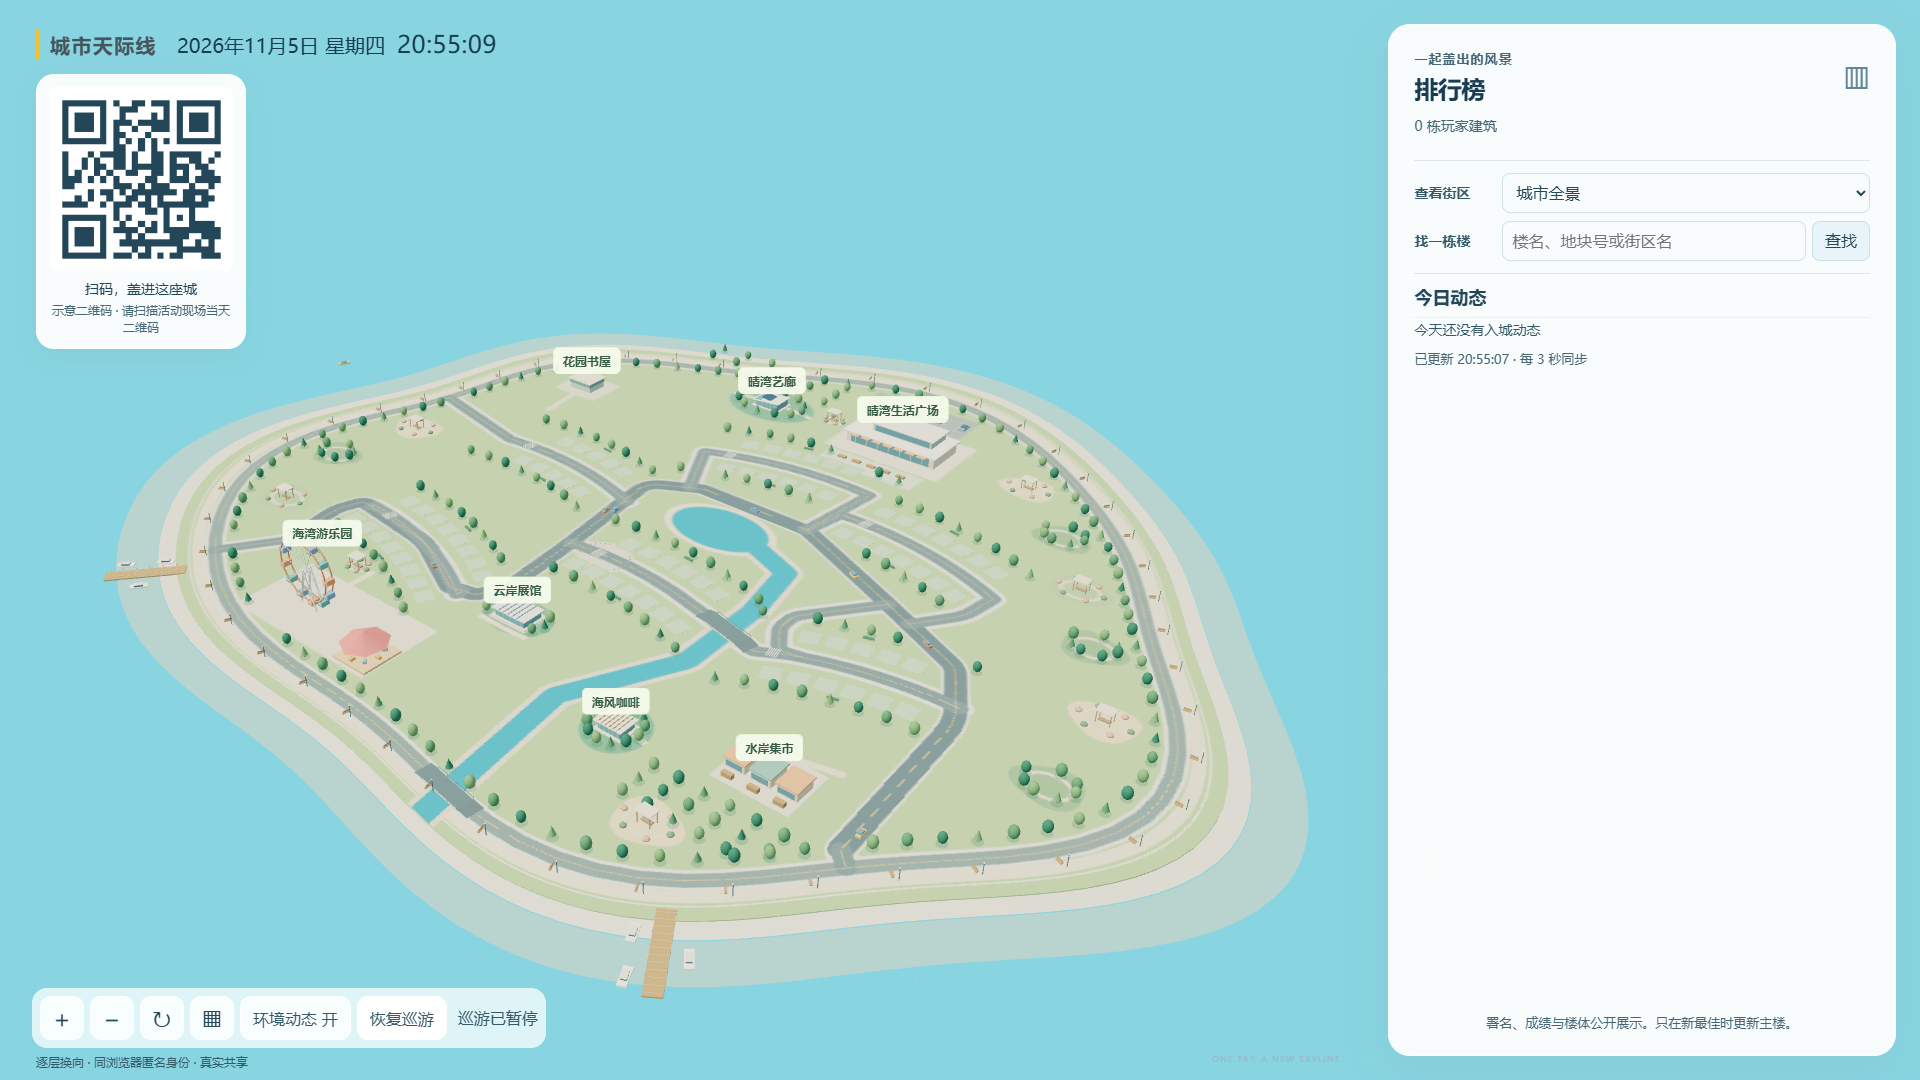
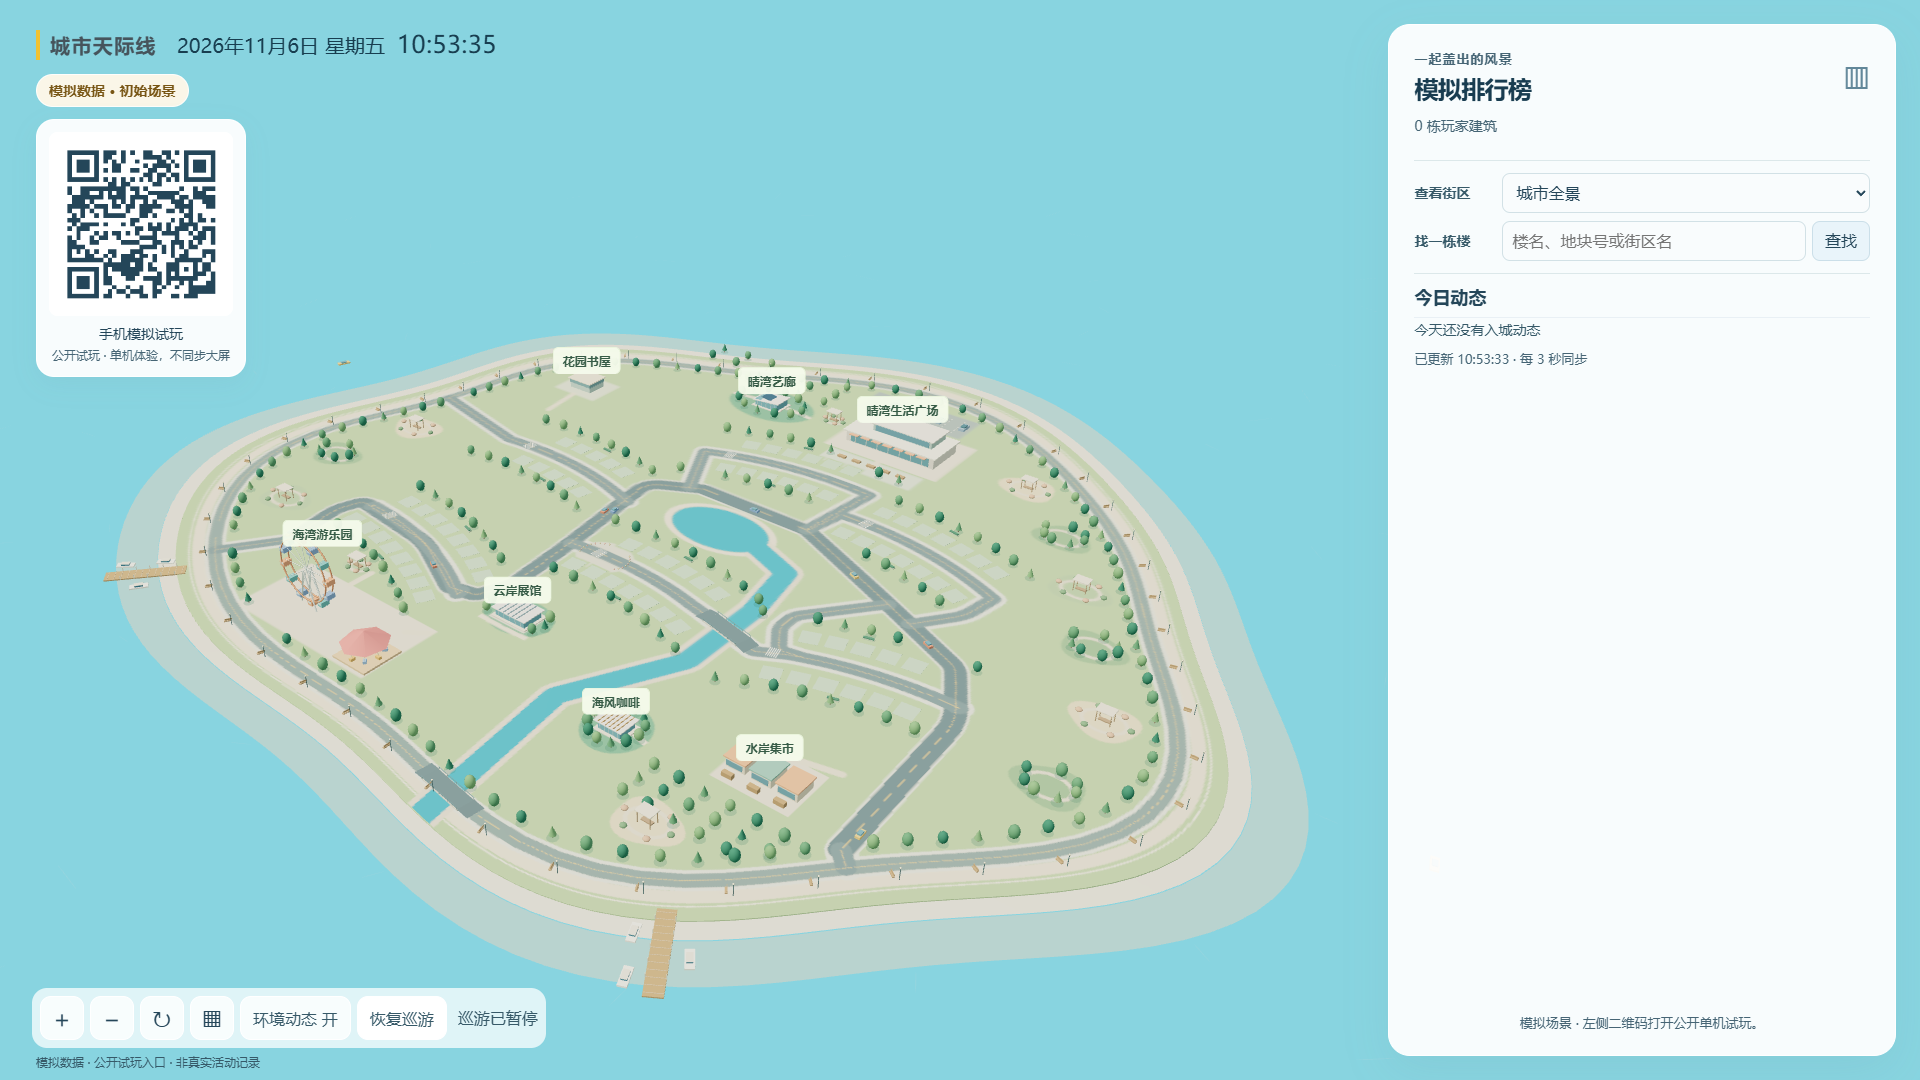
feat: add scannable demo and project links

diff --git a/pages-web/style.css b/pages-web/style.css
@@ -1,4 +1,8 @@
 :root{font-family:-apple-system,BlinkMacSystemFont,"Segoe UI","Microsoft YaHei",sans-serif;color:#214b65;background:#eef8fd;font-synthesis:none}body{margin:0}a{color:#2268ae;text-underline-offset:3px}a:focus-visible{outline:3px solid #edb763;outline-offset:5px}[hidden]{display:none!important}
 .pages-landing{max-width:1120px;margin:auto;padding:24px 32px 20px}.pages-heading,.pages-footer{display:flex;justify-content:space-between;gap:16px;align-items:center}.pages-heading a{font-size:13px}.pages-mark{font-size:12px;font-weight:650;border:1px solid #c9e0ee;background:#fffc;border-radius:20px;padding:8px 13px}.pages-hero{padding-top:54px}.pages-eyebrow{font-size:11px;letter-spacing:.13em;color:#6689a1}.pages-hero h1{font-size:clamp(34px,5.3vw,62px);line-height:1.2;letter-spacing:-.045em;margin:18px 0;color:#234b69}.pages-intro{max-width:690px;line-height:1.9;color:#56758c;font-size:15px}.pages-actions{display:flex;gap:14px;flex-wrap:wrap;margin:27px 0 32px}.pages-actions a{display:grid;gap:6px;text-decoration:none;font-weight:700;font-size:17px;padding:17px 27px;border-radius:17px;min-width:182px;box-sizing:border-box;min-height:77px;border:1px solid #bdd7eb}.pages-actions a span{font-size:11px;font-weight:400}.pages-primary{background:#3679c8;color:#fff;box-shadow:0 8px 24px #4c8bc528}.pages-secondary{background:#fffc;color:#3d6a90}.pages-preview{margin:0;padding:10px;background:#fffc;border:1px solid #d2e5ee;border-radius:22px;box-shadow:0 18px 55px #326a8620}.pages-preview img{display:block;width:100%;height:auto;border-radius:14px}.pages-preview figcaption{font-size:12px;line-height:1.7;color:#6c8191;padding:10px 6px 3px}.pages-notes{display:grid;grid-template-columns:repeat(3,1fr);gap:23px;margin:34px 0}.pages-notes article{padding:9px 4px}.pages-notes h2,.pages-contact h2{font-size:17px;color:#315b76}.pages-notes p,.pages-contact p{font-size:13px;line-height:1.9;color:#637e91}.pages-contact{padding:20px 26px;border:1px solid #d0e4ef;border-radius:18px;background:#fff9}.pages-contact a{display:inline-block;margin:7px 22px 5px 0;font-size:13px}.pages-footer{padding:25px 0 0;font-size:10px;color:#7d93a3}.pages-footer a{color:inherit}.demo-notice{position:fixed;top:0;left:0;right:0;z-index:1000;display:flex;justify-content:center;gap:12px;align-items:center;min-height:18px;box-sizing:border-box;padding:1px 5px;background:#fff7e4f5;color:#7c622d;font-size:10px;line-height:16px}.demo-notice a{color:inherit;white-space:nowrap}
 :root[data-pages-view=game] .app-header{transform:translateY(18px)}:root[data-pages-view=game] .sticker-row,:root[data-pages-view=game] #own-photo-actions,:root[data-pages-view=game] #photo-dialog{display:none!important}
+:root[data-pages-view=game] .demo-play-qr[hidden]{display:none!important}
+:root[data-pages-view=game] .demo-promotion{display:flex;flex-direction:column;align-items:center;gap:6px;text-align:center}
+.demo-promotion canvas{display:block;width:136px!important;height:136px!important;max-width:100%;background:#fff;border-radius:8px}.demo-promotion span{font-size:12px;color:#456879}.demo-promotion a{color:#2c6d9d;font-size:12px;line-height:1.5;text-underline-offset:3px}.demo-promotion a:hover{color:#164b72}.demo-promotion a:focus-visible{outline:2px solid #2c6d9d;outline-offset:4px;border-radius:2px}
+@media(min-width:1101px) and (max-height:950px){:root[data-pages-view=game] .city-board #city-ranking li button{min-height:30px!important}:root[data-pages-view=game] .rank-name{font-size:15px!important}:root[data-pages-view=game] #city-ranking li strong{font-size:16px!important}:root[data-pages-view=game] .city-feed{display:none!important}.demo-promotion{margin-top:auto!important}.demo-promotion canvas{width:112px!important;height:112px!important}}
 @media(max-width:680px){.pages-landing{padding:17px 19px}.pages-heading{gap:8px}.pages-heading a{font-size:11px}.pages-mark{font-size:10px;padding:7px 10px}.pages-hero{padding-top:33px}.pages-eyebrow{font-size:9px;line-height:1.7;letter-spacing:.07em}.pages-intro{font-size:13px}.pages-actions{gap:11px;margin:23px 0}.pages-actions a{min-width:0;flex:1;padding:15px;font-size:15px}.pages-actions a span{font-size:10px}.pages-preview{padding:6px;border-radius:15px}.pages-preview img{border-radius:10px}.pages-preview figcaption{font-size:10px}.pages-notes{grid-template-columns:1fr;gap:2px;margin:23px 0}.pages-notes article{padding:2px 0}.pages-notes h2{margin-bottom:6px}.pages-notes p{margin-top:0}.pages-contact{padding:15px 18px}.pages-footer{font-size:9px;align-items:flex-start;line-height:1.7}.demo-notice{gap:8px;font-size:9px}}

diff --git a/pages-web/main.ts b/pages-web/main.ts
@@ -31,6 +31,35 @@ async function openDemo(){
     const [,module]=await Promise.all([import('../src/style.css'),import('../src/main.ts')]);
     disposeGame=await module.mountSkyline(root);
     const photoInput=root.querySelector<HTMLInputElement>('#photo-file');if(photoInput)photoInput.disabled=true;
+    if(view==='city'){
+      const {default:QRCode}=await import('qrcode');
+      const preview=new URL('?mode=practice',location.href).href;
+      const project='https://github.com/sw897/one-tap-skyline';
+      const makeLink=(href:string,label:string)=>{
+        const link=document.createElement('a');link.href=href;link.textContent=label;
+        link.target='_blank';link.rel='noopener noreferrer';return link;
+      };
+      const qrOptions={width:240,margin:4,errorCorrectionLevel:'M' as const,color:{dark:'#244659',light:'#ffffff'}};
+      const playQR=root.querySelector<HTMLCanvasElement>('#entry-qr');
+      const playCard=root.querySelector<HTMLElement>('.city-qr');
+      if(playQR&&playCard){
+        await QRCode.toCanvas(playQR,preview,qrOptions);
+        playQR.hidden=false;playCard.hidden=false;playCard.classList.add('demo-play-qr');
+        playCard.querySelector('strong')!.textContent='手机模拟试玩';
+        const note=playCard.querySelector<HTMLElement>('#qr-note')!;
+        note.textContent='单机体验 · 不同步本大屏';
+        const entry=playCard.querySelector<HTMLAnchorElement>('#entry-link')!;
+        entry.href=preview;entry.textContent='打开模拟试玩 ↗';entry.hidden=false;
+      }
+      const disclosure=root.querySelector<HTMLElement>('#city-disclosure');
+      if(disclosure){
+        disclosure.classList.add('demo-promotion');
+        const caption=document.createElement('span');caption.textContent='查看源码 · 欢迎 Star';
+        const qr=document.createElement('canvas');qr.id='project-qr';qr.setAttribute('aria-label','GitHub 开源项目二维码');
+        await QRCode.toCanvas(qr,project,qrOptions);
+        disclosure.replaceChildren(caption,qr,makeLink(project,'GitHub · One-Tap Skyline ↗'));
+      }
+    }
   }catch{
     disposeGame?.();
     if(!root.querySelector('.compatibility-message'))root.innerHTML='<main class="compatibility-message"><h1>暂时无法打开模拟试玩</h1><p>请刷新重试，或使用支持 WebGL2 的新版浏览器。</p><a href="./">返回体验说明</a></main>';

diff --git a/README.en.md b/README.en.md
@@ -10,15 +10,19 @@ One-Tap Skyline is an open-source tower stacking browser game for live events, e
 
 The GitHub Pages demo needs no login. It uses page-local simulated data, with no shared scores or photo uploads. Refreshing or device-clock Shanghai midnight resets the page. Full multiplayer event features run in the Docker deployment.
 
+[<img src="docs/images/demo-qr.svg" width="200" alt="Scan to open the public phone simulation on GitHub Pages">](https://sw897.github.io/one-tap-skyline/?mode=practice)
+
+*Scan or click the code to play. Your simulated work stays in the current page and does not sync to the city display.*
+
 [Screenshots](#start-with-an-open-city) · [How to play](#build-with-one-finger) · [Self-hosting](#run-your-own-event) · [Feedback and deployment support](#feedback-and-deployment-support) · [FAQ](#frequently-asked-questions)
 
 ## Start with an open city
 
 Streets, parks, a fairground and waterfronts are ready for everyone’s towers. The display shows the day’s city and leaderboard, with an automatic camera tour, manual orbit and zoom, building-name search and district navigation.
 
-![One-Tap Skyline 3D coastal city on the big screen before player towers arrive](docs/images/city-initial.png)
+![Simulated initial city with a working QR code for the public phone demo](docs/images/city-initial.png)
 
-*Illustrative initial scene with no player towers. The QR code shown is for illustration; scan the current code at your event to join.*
+*Simulated initial scene with no player towers. The pictured code opens the [phone simulation](https://sw897.github.io/one-tap-skyline/?mode=practice), as does the code above. Full event participation uses the current on-site display code.*
 
 ## Build with one finger
 
@@ -89,6 +93,10 @@ Every valid personal best is retained. The highest-scoring 76 towers get display
 ### Why does yesterday's QR code stop working?
 
 All game data resets at 00:00 Beijing time and the participation QR code changes. Scan the new code on a new day. The complete page opened from a valid scan remains usable during that day.
+
+### Are names entered in the demo public?
+
+The Pages demo does not upload names or scores; your simulated work is visible only in your current page. The full shared deployment publicly displays saved names and photos. It currently performs length and basic character cleanup, with no content moderation. Restricting event names to system-generated names is the simplest option; custom names need server-side content checks and a way for a moderator to remove content. Photos need their own moderation policy.
 
 ## License
 

diff --git a/docs/pages-demo.md b/docs/pages-demo.md
@@ -17,6 +17,7 @@
 - 固定的76栋虚构样例仍用于大屏演示，重新初始化不意味着删除真实玩家数据；本目标没有真实玩家数据。
 - 不提供照片选择、上传或保存；只允许读取同源静态运行配置和构建资源，不能向后端提交成绩、照片或清空请求。
 - 模拟大屏只读且公开，没有管理操作，因此不设置访问口令。真正的管理功能应由服务端或网关认证保护；客户端口令不能保护公开静态资源。
+- 大屏左上二维码打开单机模拟试玩，右下二维码打开 GitHub 项目，供观众自愿查看源码或 Star。两个码均为固定公开地址，不包含活动参与码；手机模拟作品不会同步到模拟大屏。
 
 本目标不连接任何完整活动部署。现有 Node/Docker 代码、网关、卷和线上部署保持独立。
 
